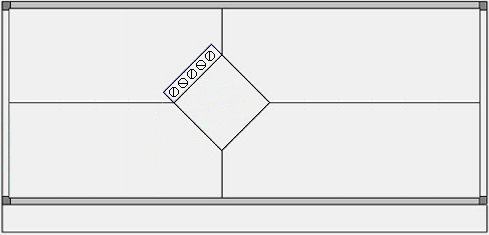
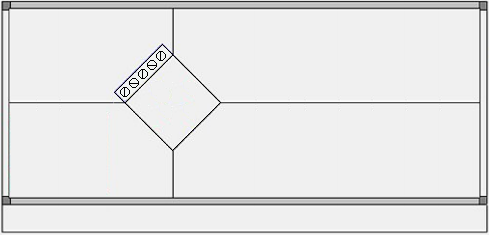
Images changed

diff --git a/Magisterka/MainWindow.xaml b/Magisterka/MainWindow.xaml
@@ -91,11 +91,12 @@
                 <Grid Background="Transparent" >
                     <Image Name="imgexchanger" HorizontalAlignment="Center" Margin="418,14,10,239" VerticalAlignment="Center" Height="Auto" Width="756" DataContext="HVACSupplyChannel" Source="images\wymiennikblank.png" />
                     <Image Name="imgin1" HorizontalAlignment="Left" Height="72" Margin="448,62,0,0" VerticalAlignment="Top" Width="32" Source="images\filter.png" />
-                    <Image Name="imgin2" HorizontalAlignment="Left" Height="68" Margin="830,225,0,0" VerticalAlignment="Top" Width="50" Source="images\heater.png" />
-                    <Image Name="imgin3" HorizontalAlignment="Left" Height="68" Margin="900,225,0,0" VerticalAlignment="Top" Width="50" Source="images\cooler.png" />
-                    <Image Name="imgin4" HorizontalAlignment="Left" Height="72" Margin="970,225,0,0" VerticalAlignment="Top" Width="72" Source="images\fan.png" />
+                    <Image Name="imgin2" HorizontalAlignment="Left" Height="68" Margin="910,225,0,0" VerticalAlignment="Top" Width="50" Source="images\heater.png" />
+                    <Image Name="imgin3" HorizontalAlignment="Left" Height="68" Margin="960,225,0,0" VerticalAlignment="Top" Width="50" Source="images\cooler.png" />
+                    <Image Name="imgin4" HorizontalAlignment="Left" Height="72" Margin="1020,225,0,0" VerticalAlignment="Top" Width="72" Source="images\fan.png" />
                     <Image Name="imgin5" HorizontalAlignment="Left" Height="72" Margin="1110,220,0,0" VerticalAlignment="Top" Width="32" Source="images\filter.png" />
                     <Image Name="imgout1" HorizontalAlignment="Left" Height="72" Margin="1110,62,0,0" VerticalAlignment="Top" Width="32" Source="images\filter.png" />
+                    <Image Name="imgmix" HorizontalAlignment="Left" Height="Auto" Margin="775,166,0,0" VerticalAlignment="Top" Width="120" Source="images\mixing.png" />
                     <Button Name="startButton" Content="Start" HorizontalAlignment="Left" Margin="10,14,0,0" VerticalAlignment="Top" Width="75" Height="40" Click="startButton_Click"/>
                     <Button Name="stopButton" Content="Stop" HorizontalAlignment="Left" Margin="134,14,0,0" VerticalAlignment="Top" Width="74" Height="40" Click="stopButton_Click"/>
                     <Button Name="pauseButton" Content="Pauza" HorizontalAlignment="Left" Margin="266,14,0,0" VerticalAlignment="Top" Width="75" Height="40" Click="pauseButton_Click"/>
